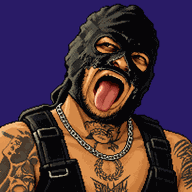
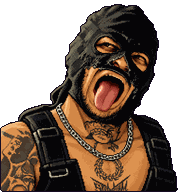
Portraits: unified transparent backgrounds
Claude-Session: https://claude.ai/code/session_01AvFPcaBcXEQoKeNegeWUSr

diff --git a/test-o81m9jfond/index.html b/test-o81m9jfond/index.html
@@ -24,7 +24,7 @@
   <meta name="theme-color" content="#0b0820" />
   <link rel="preload" href="assets/fonts/russo-one-cyrillic-400-normal.woff2" as="font" type="font/woff2" crossorigin />
   <link rel="preload" href="assets/fonts/press-start-2p-cyrillic-400-normal.woff2" as="font" type="font/woff2" crossorigin />
-  <link rel="stylesheet" href="style.css?v=87" />
+  <link rel="stylesheet" href="style.css?v=88" />
 </head>
 <body>
   <div id="rotate">
@@ -255,7 +255,7 @@
   <audio data-sfx="voice_g_attack" src="assets/audio/voice_g_attack.mp3" preload="none"></audio>
   <audio id="battle-music" preload="none"></audio>
 
-  <script src="sprites.js?v=87"></script>
-  <script src="game.js?v=87"></script>
+  <script src="sprites.js?v=88"></script>
+  <script src="game.js?v=88"></script>
 </body>
 </html>

diff --git a/test-o81m9jfond/sw.js b/test-o81m9jfond/sw.js
@@ -1,7 +1,7 @@
 // Service worker: lets the game run without internet after the first visit.
 // Pages and code: network first (updates arrive at once), cached copy when offline.
 // Pictures, sounds, fonts: cache first. Music/ambience streams (<audio> range requests) are left to the network.
-const VERSION = "rnv-beta-87";
+const VERSION = "rnv-beta-88";
 const CORE = ["./", "index.html", "game.js", "sprites.js", "style.css", "manifest.webmanifest",
   "assets/fonts/russo-one-cyrillic-400-normal.woff2", "assets/fonts/press-start-2p-cyrillic-400-normal.woff2",
   "assets/ui/logo.png", "assets/ui/dk_logo.png", "assets/ui/favicon_32.png"];
